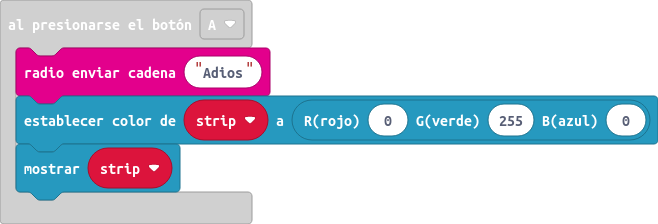
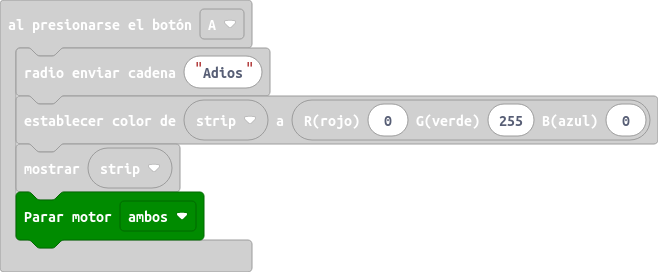
Actualizar main.blocks, main.ts

diff --git a/main.ts b/main.ts
@@ -2,6 +2,7 @@ input.onButtonPressed(Button.A, function () {
     radio.sendString("Adios")
     strip.showColor(neopixel.rgb(0, 255, 0))
     strip.show()
+    maqueen.motorStop(maqueen.Motors.All)
 })
 radio.onReceivedString(function (receivedString) {
     if (receivedString == "Hola") {
